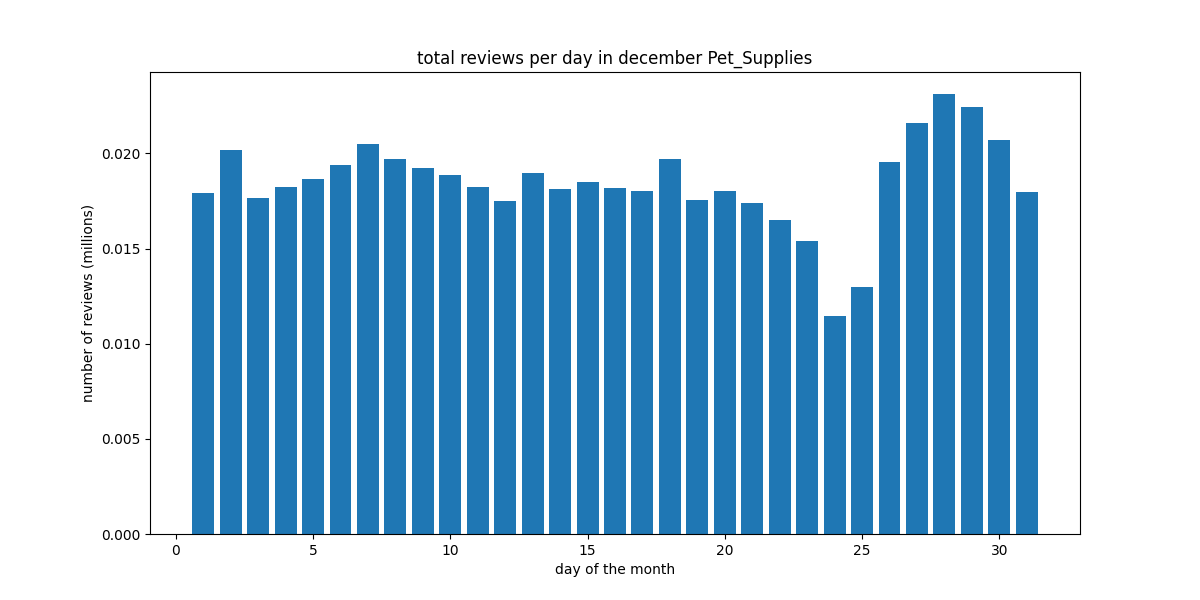
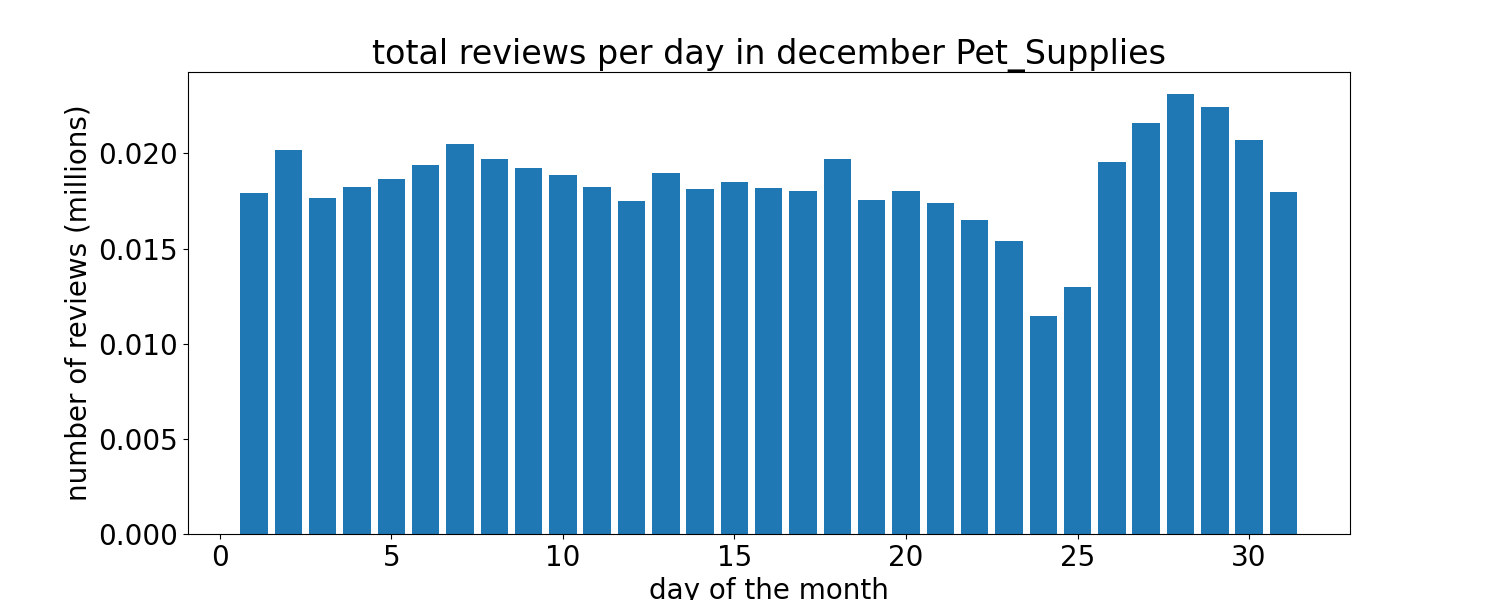
improved readability december plots

diff --git a/results/patterns/plot_patterns.py b/results/patterns/plot_patterns.py
@@ -221,7 +221,7 @@ def december_calc(data):
     plt.figure(figsize=figsize)
     plt.bar(list(range(1, 32)), [y / 1e6 for y in dec_list_total])
     plt.title(f"total reviews per day in december total")
-    plt.ylabel("number of reviews (millions")
+    plt.ylabel("number of reviews (millions)")
     plt.xlabel("day of the month")
     plt.savefig(output_dir_total + "tot_rev_dec.png")
 
@@ -238,7 +238,7 @@ def december_calc(data):
 
 weekday_calc(data)
 month_calc(data)
-# december_calc(data)
+december_calc(data)
 
 
-# save_results()
+save_results()
